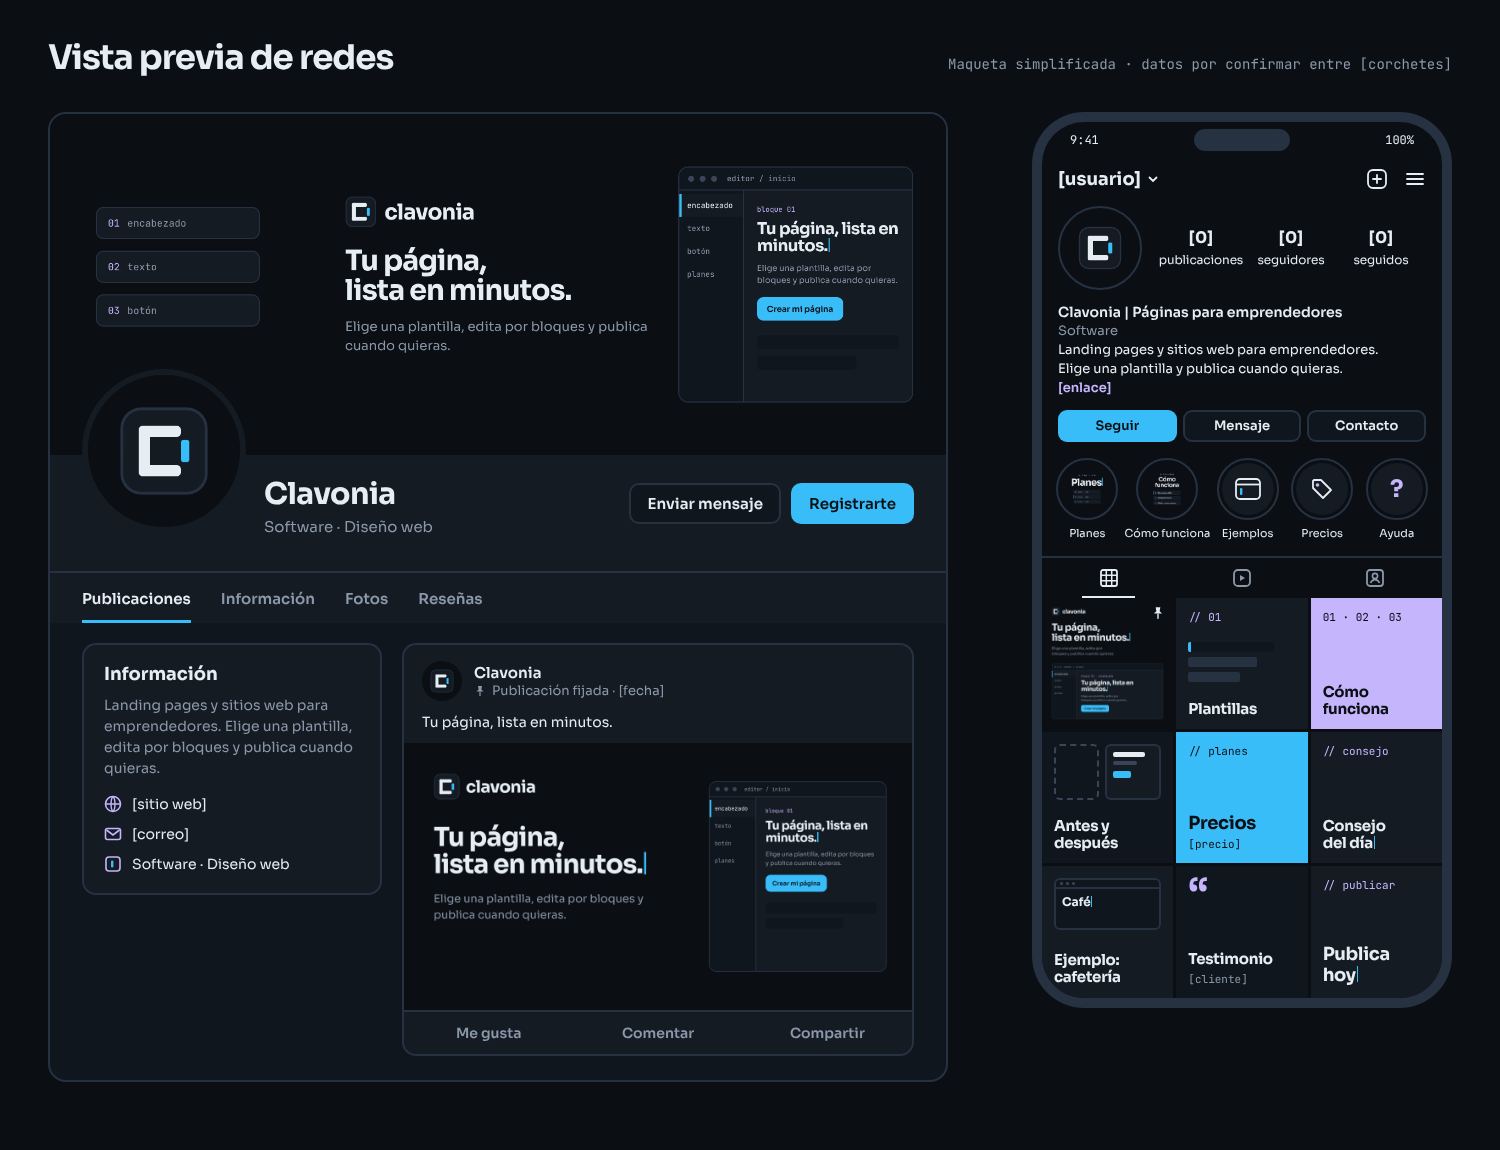
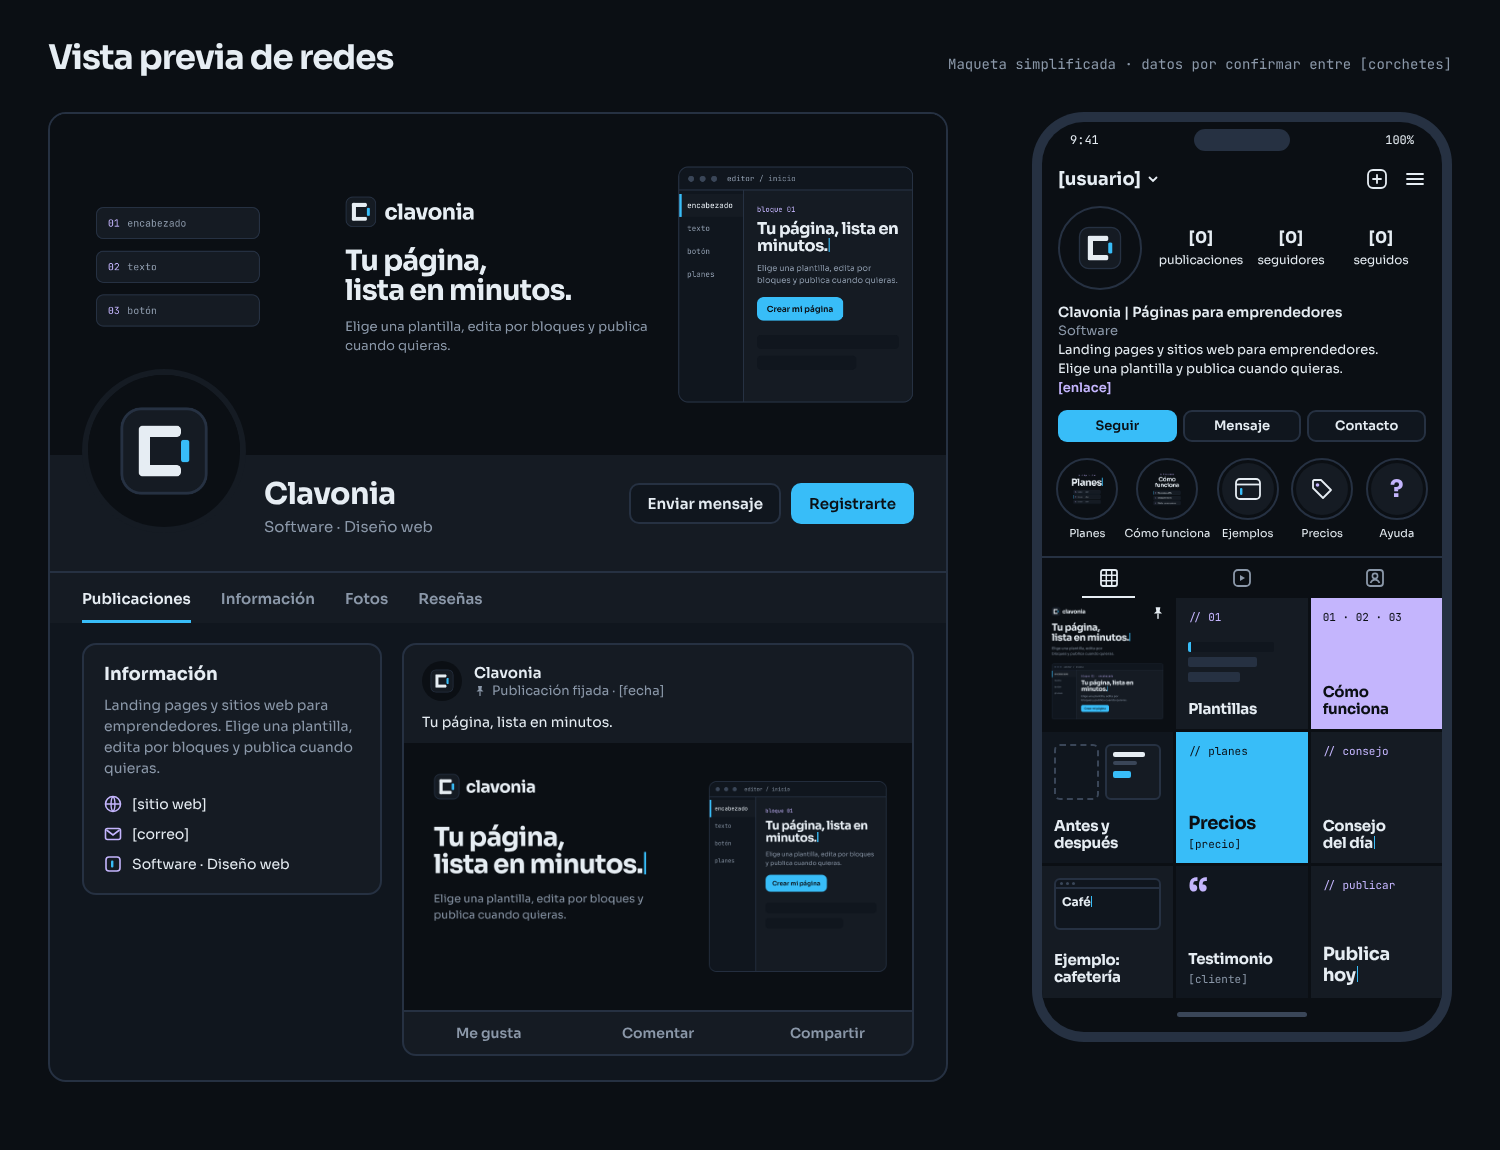
Add brand guide and social preview boards for bloques-vivos and cursor-codigo
Claude-Session: https://claude.ai/code/session_013XA8P2WAmpXZJM5TfkydHJ

Changed region(s): [[0.6747, 0.8522, 0.9813, 0.913]]

diff --git a/clavonia/brand/variants/cursor-codigo/social-preview-1500x1150.html b/clavonia/brand/variants/cursor-codigo/social-preview-1500x1150.html
@@ -211,6 +211,7 @@ body{overflow:hidden}
           <span class="h" style="font-size:18px">Publica<br>hoy<span class="caret"></span></span>
         </div>
       </div>
+      <div style="height:34px;display:flex;align-items:center;justify-content:center"><i style="display:block;width:130px;height:5px;border-radius:3px;background:#3A4658"></i></div>
     </div>
   </div>
 

diff --git a/clavonia/brand/variants/bloques-vivos/README.md b/clavonia/brand/variants/bloques-vivos/README.md
@@ -65,11 +65,8 @@ Todos están en esta carpeta. Cada PNG tiene su HTML fuente con el mismo nombre.
 | `instagram-story-1080x1920.png` | 1080 × 1920 | Historia |
 | `highlight-1-1080x1080.png` | 1080 × 1080 | Destacado "Planes" |
 | `highlight-2-1080x1080.png` | 1080 × 1080 | Destacado "Cómo funciona" |
-
-Los HTML fuente son `avatar-1080x1080.html`, `facebook-cover-1640x624.html`,
-`facebook-post-1200x630.html`, `instagram-post-1080x1350.html`,
-`instagram-square-1080x1080.html`, `instagram-story-1080x1920.html`,
-`highlight-1-1080x1080.html` y `highlight-2-1080x1080.html`.
+| `brand-guide-1600x1200.png` | 1600 × 1200 | Lámina: guía de marca en una página |
+| `social-preview-1500x1150.png` | 1500 × 1150 | Lámina: vista previa de Facebook e Instagram |
 
 ## Regenerar un PNG
 

diff --git a/clavonia/brand/variants/cursor-codigo/README.md b/clavonia/brand/variants/cursor-codigo/README.md
@@ -55,6 +55,8 @@ Texto sobre cian: usa `#0B0F14` (8.9:1). No uses cian para texto pequeño sobre 
 | `instagram-story-1080x1920.png` | 1080 × 1920 | Historia (zona segura de 250 px) |
 | `highlight-1-1080x1080.png` | 1080 × 1080 | Destacado "Planes" |
 | `highlight-2-1080x1080.png` | 1080 × 1080 | Destacado "Cómo funciona" |
+| `brand-guide-1600x1200.png` | 1600 × 1200 | Lámina de guía de marca (8 secciones) |
+| `social-preview-1500x1150.png` | 1500 × 1150 | Vista previa de Facebook e Instagram |
 
 Cada PNG tiene su fuente HTML con el mismo nombre (`.html`). Para regenerar un PNG:
 
